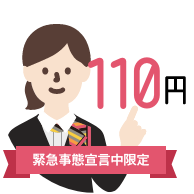
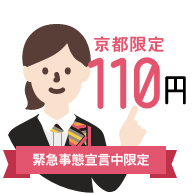
update

Changed region(s): [[0.4639, 0.1856, 0.866, 0.2784]]

diff --git a/front-page.php b/front-page.php
@@ -43,75 +43,13 @@ get_header(); ?>
 <!-- ▼ 重要なおしらせ -->
 <div class="important">
   <h3><i class="fas fa-flag mr-2"></i>飲食店応援キャンペーン</h3>
-  <p>緊急事態宣言発令に伴い、1/14～宣言終了期間まで通常550円の宅配料を<span class="font-weight-bold text-primary">110円</span>でご利用いただけます。</p>
+  <p>緊急事態宣言発令に伴い、1/14～宣言終了期間まで通常550円の宅配料を<span class="font-weight-bold text-primary">110円</span>でご利用いただけます。（京都限定）</p>
 </div>
 <!-- ▲ 重要なおしらせ -->
 
-<section class="search">
-<div class="search__genre bg-white pb-4">
-<div class="container">
-<div class="search__genre-list">
-<ul>
-<li>
-<a class="text-body" href="<?php echo $home; ?>/?post_type=shop&s=&shop_category=yakiniku">
-<img src="<?php echo $wp_url; ?>/dist/images/genre_yakiniku.png" alt="焼肉/鉄板焼" srcset="<?php echo $wp_url; ?>/dist/images/genre_yakiniku.png 1x, <?php echo $wp_url; ?>/dist/images/genre_yakiniku@2x.png 2x">
-<span>焼肉/鉄板焼</span>
-</a>
-</li>
-<li>
-<a class="text-body" href="<?php echo $home; ?>/?post_type=shop&s=&shop_category=sushi">
-<img src="<?php echo $wp_url; ?>/dist/images/genre_sushi.png" alt="寿司/刺身" srcset="<?php echo $wp_url; ?>/dist/images/genre_sushi.png 1x, <?php echo $wp_url; ?>/dist/images/genre_sushi@2x.png 2x">
-<span>寿司/刺身</span>
-</a>
-</li>
-<li>
-<a class="text-body" href="<?php echo $home; ?>/?post_type=shop&s=&shop_category=japan">
-<img src="<?php echo $wp_url; ?>/dist/images/genre_japan.png" alt="和食" srcset="<?php echo $wp_url; ?>/dist/images/genre_japan.png 1x, <?php echo $wp_url; ?>/dist/images/genre_japan@2x.png 2x">
-<span>和食</span>
-</a>
-</li>
-<li>
-<a class="text-body" href="<?php echo $home; ?>/?post_type=shop&s=&shop_category=western">
-<img src="<?php echo $wp_url; ?>/dist/images/genre_western.png" alt="洋食" srcset="<?php echo $wp_url; ?>/dist/images/genre_western.png 1x, <?php echo $wp_url; ?>/dist/images/genre_western@2x.png 2x">
-<span>洋食</span>
-</a>
-</li>
-<li>
-<a class="text-body" href="<?php echo $home; ?>/?post_type=shop&s=&shop_category=curry">
-<img src="<?php echo $wp_url; ?>/dist/images/genre_curry.png" alt="カレー" srcset="<?php echo $wp_url; ?>/dist/images/genre_curry.png 1x, <?php echo $wp_url; ?>/dist/images/genre_curry@2x.png 2x">
-<span>カレー</span>
-</a>
-</li>
-<li>
-<a class="text-body" href="<?php echo $home; ?>/?post_type=shop&s=&shop_category=izakaya">
-<img src="<?php echo $wp_url; ?>/dist/images/genre_izakaya.png" alt="居酒屋" srcset="<?php echo $wp_url; ?>/dist/images/genre_izakaya.png 1x, <?php echo $wp_url; ?>/dist/images/genre_izakaya@2x.png 2x">
-<span>居酒屋</span>
-</a>
-</li>
-<li>
-<a class="text-body" href="<?php echo $home; ?>/?post_type=shop&s=&shop_category=yakitori">
-<img src="<?php echo $wp_url; ?>/dist/images/genre_yakitori.png" alt="焼き鳥" srcset="<?php echo $wp_url; ?>/dist/images/genre_yakitori.png 1x, <?php echo $wp_url; ?>/dist/images/genre_yakitori@2x.png 2x">
-<span>焼き鳥</span>
-</a>
-</li>
-<li>
-<a class="text-body" href="<?php echo $home; ?>/?post_type=shop&s=&shop_category=cafe">
-<img src="<?php echo $wp_url; ?>/dist/images/genre_cafe.png" alt="カフェ/スイーツ" srcset="<?php echo $wp_url; ?>/dist/images/genre_cafe.png 1x, <?php echo $wp_url; ?>/dist/images/genre_cafe@2x.png 2x">
-<span>カフェ/スイーツ</span>
-</a>
-</li>
-<li>
-<a class="text-body" href="<?php echo $home; ?>/?post_type=shop&s=&shop_category=asia">
-<img src="<?php echo $wp_url; ?>/dist/images/genre_asia.png" alt="アジア料理" srcset="<?php echo $wp_url; ?>/dist/images/genre_asia.png 1x, <?php echo $wp_url; ?>/dist/images/genre_asia@2x.png 2x">
-<span>アジア料理</span>
-</a>
-</li>
-
-</ul>
-</div>
-</div>
-</div>
-</section>
+<!-- ▼ ジャンル -->
+<?php get_template_part('genre'); ?>
+<!-- ▲ ジャンル -->
 
 <!-- search -->
 <div class="py-md-5 main-left front">

diff --git a/genre.php b/genre.php
@@ -1,0 +1,76 @@
+<?php
+$home = esc_url(home_url());
+$wp_url = get_template_directory_uri();
+get_header(); ?>
+
+<section class="search">
+<div class="search__genre bg-white pb-4">
+<div class="container">
+<div class="search__genre-list">
+<ul>
+<li>
+<a class="text-body" href="<?php echo $home; ?>/?post_type=shop&s=&shop_category=yakiniku">
+<img src="<?php echo $wp_url; ?>/dist/images/genre_yakiniku.png" alt="焼肉/鉄板焼" srcset="<?php echo $wp_url; ?>/dist/images/genre_yakiniku.png 1x, <?php echo $wp_url; ?>/dist/images/genre_yakiniku@2x.png 2x">
+<span>焼肉/鉄板焼</span>
+</a>
+</li>
+<li>
+<a class="text-body" href="<?php echo $home; ?>/?post_type=shop&s=&shop_category=sushi">
+<img src="<?php echo $wp_url; ?>/dist/images/genre_sushi.png" alt="寿司/刺身" srcset="<?php echo $wp_url; ?>/dist/images/genre_sushi.png 1x, <?php echo $wp_url; ?>/dist/images/genre_sushi@2x.png 2x">
+<span>寿司/刺身</span>
+</a>
+</li>
+<li>
+<a class="text-body" href="<?php echo $home; ?>/?post_type=shop&s=&shop_category=japan">
+<img src="<?php echo $wp_url; ?>/dist/images/genre_japan.png" alt="和食" srcset="<?php echo $wp_url; ?>/dist/images/genre_japan.png 1x, <?php echo $wp_url; ?>/dist/images/genre_japan@2x.png 2x">
+<span>和食</span>
+</a>
+</li>
+<li>
+<a class="text-body" href="<?php echo $home; ?>/?post_type=shop&s=&shop_category=western">
+<img src="<?php echo $wp_url; ?>/dist/images/genre_western.png" alt="洋食" srcset="<?php echo $wp_url; ?>/dist/images/genre_western.png 1x, <?php echo $wp_url; ?>/dist/images/genre_western@2x.png 2x">
+<span>洋食</span>
+</a>
+</li>
+<li>
+<a class="text-body" href="<?php echo $home; ?>/?post_type=shop&s=&shop_category=curry">
+<img src="<?php echo $wp_url; ?>/dist/images/genre_curry.png" alt="カレー" srcset="<?php echo $wp_url; ?>/dist/images/genre_curry.png 1x, <?php echo $wp_url; ?>/dist/images/genre_curry@2x.png 2x">
+<span>カレー</span>
+</a>
+</li>
+<li>
+<a class="text-body" href="<?php echo $home; ?>/?post_type=shop&s=&shop_category=izakaya">
+<img src="<?php echo $wp_url; ?>/dist/images/genre_izakaya.png" alt="居酒屋" srcset="<?php echo $wp_url; ?>/dist/images/genre_izakaya.png 1x, <?php echo $wp_url; ?>/dist/images/genre_izakaya@2x.png 2x">
+<span>居酒屋</span>
+</a>
+</li>
+<li>
+<a class="text-body" href="<?php echo $home; ?>/?post_type=shop&s=&shop_category=yakitori">
+<img src="<?php echo $wp_url; ?>/dist/images/genre_yakitori.png" alt="焼き鳥" srcset="<?php echo $wp_url; ?>/dist/images/genre_yakitori.png 1x, <?php echo $wp_url; ?>/dist/images/genre_yakitori@2x.png 2x">
+<span>焼き鳥</span>
+</a>
+</li>
+<li>
+<a class="text-body" href="<?php echo $home; ?>/?post_type=shop&s=&shop_category=cafe">
+<img src="<?php echo $wp_url; ?>/dist/images/genre_cafe.png" alt="カフェ/スイーツ" srcset="<?php echo $wp_url; ?>/dist/images/genre_cafe.png 1x, <?php echo $wp_url; ?>/dist/images/genre_cafe@2x.png 2x">
+<span>カフェ/スイーツ</span>
+</a>
+</li>
+<li>
+<a class="text-body" href="<?php echo $home; ?>/?post_type=shop&s=&shop_category=asia">
+<img src="<?php echo $wp_url; ?>/dist/images/genre_asia.png" alt="アジア料理" srcset="<?php echo $wp_url; ?>/dist/images/genre_asia.png 1x, <?php echo $wp_url; ?>/dist/images/genre_asia@2x.png 2x">
+<span>アジア料理</span>
+</a>
+</li>
+<li>
+<a class="text-body" href="<?php echo $home; ?>/?post_type=shop&s=&shop_category=other">
+<img src="<?php echo $wp_url; ?>/dist/images/genre_other.png" alt="多国籍/その他" srcset="<?php echo $wp_url; ?>/dist/images/genre_other.png 1x, <?php echo $wp_url; ?>/dist/images/genre_other@2x.png 2x">
+<span>多国籍/その他</span>
+</a>
+</li>
+
+</ul>
+</div>
+</div>
+</div>
+</section>

diff --git a/archive-shop.php b/archive-shop.php
@@ -29,71 +29,9 @@ get_header(); ?>
 </div>
 </div>
 
-<section class="search">
-<div class="search__genre bg-white">
-<div class="container">
-<div class="search__genre-list">
-<ul>
-<li>
-<a class="text-body" href="<?php echo $home; ?>/?post_type=shop&s=&shop_category=yakiniku">
-<img src="<?php echo $wp_url; ?>/dist/images/genre_yakiniku.png" alt="焼肉/鉄板焼" srcset="<?php echo $wp_url; ?>/dist/images/genre_yakiniku.png 1x, <?php echo $wp_url; ?>/dist/images/genre_yakiniku@2x.png 2x">
-<span>焼肉/鉄板焼</span>
-</a>
-</li>
-<li>
-<a class="text-body" href="<?php echo $home; ?>/?post_type=shop&s=&shop_category=sushi">
-<img src="<?php echo $wp_url; ?>/dist/images/genre_sushi.png" alt="寿司/刺身" srcset="<?php echo $wp_url; ?>/dist/images/genre_sushi.png 1x, <?php echo $wp_url; ?>/dist/images/genre_sushi@2x.png 2x">
-<span>寿司/刺身</span>
-</a>
-</li>
-<li>
-<a class="text-body" href="<?php echo $home; ?>/?post_type=shop&s=&shop_category=japan">
-<img src="<?php echo $wp_url; ?>/dist/images/genre_japan.png" alt="和食" srcset="<?php echo $wp_url; ?>/dist/images/genre_japan.png 1x, <?php echo $wp_url; ?>/dist/images/genre_japan@2x.png 2x">
-<span>和食</span>
-</a>
-</li>
-<li>
-<a class="text-body" href="<?php echo $home; ?>/?post_type=shop&s=&shop_category=western">
-<img src="<?php echo $wp_url; ?>/dist/images/genre_western.png" alt="洋食" srcset="<?php echo $wp_url; ?>/dist/images/genre_western.png 1x, <?php echo $wp_url; ?>/dist/images/genre_western@2x.png 2x">
-<span>洋食</span>
-</a>
-</li>
-<li>
-<a class="text-body" href="<?php echo $home; ?>/?post_type=shop&s=&shop_category=curry">
-<img src="<?php echo $wp_url; ?>/dist/images/genre_curry.png" alt="カレー" srcset="<?php echo $wp_url; ?>/dist/images/genre_curry.png 1x, <?php echo $wp_url; ?>/dist/images/genre_curry@2x.png 2x">
-<span>カレー</span>
-</a>
-</li>
-<li>
-<a class="text-body" href="<?php echo $home; ?>/?post_type=shop&s=&shop_category=izakaya">
-<img src="<?php echo $wp_url; ?>/dist/images/genre_izakaya.png" alt="居酒屋" srcset="<?php echo $wp_url; ?>/dist/images/genre_izakaya.png 1x, <?php echo $wp_url; ?>/dist/images/genre_izakaya@2x.png 2x">
-<span>居酒屋</span>
-</a>
-</li>
-<li>
-<a class="text-body" href="<?php echo $home; ?>/?post_type=shop&s=&shop_category=yakitori">
-<img src="<?php echo $wp_url; ?>/dist/images/genre_yakitori.png" alt="焼き鳥" srcset="<?php echo $wp_url; ?>/dist/images/genre_yakitori.png 1x, <?php echo $wp_url; ?>/dist/images/genre_yakitori@2x.png 2x">
-<span>焼き鳥</span>
-</a>
-</li>
-<li>
-<a class="text-body" href="<?php echo $home; ?>/?post_type=shop&s=&shop_category=cafe">
-<img src="<?php echo $wp_url; ?>/dist/images/genre_cafe.png" alt="カフェ/スイーツ" srcset="<?php echo $wp_url; ?>/dist/images/genre_cafe.png 1x, <?php echo $wp_url; ?>/dist/images/genre_cafe@2x.png 2x">
-<span>カフェ/スイーツ</span>
-</a>
-</li>
-<li>
-<a class="text-body" href="<?php echo $home; ?>/?post_type=shop&s=&shop_category=asia">
-<img src="<?php echo $wp_url; ?>/dist/images/genre_asia.png" alt="アジア料理" srcset="<?php echo $wp_url; ?>/dist/images/genre_asia.png 1x, <?php echo $wp_url; ?>/dist/images/genre_asia@2x.png 2x">
-<span>アジア料理</span>
-</a>
-</li>
-
-</ul>
-</div>
-</div>
-</div>
-</section>
+<!-- ▼ ジャンル -->
+<?php get_template_part('genre'); ?>
+<!-- ▲ ジャンル -->
 
 <div class="py-md-5 main-left  bg-white">
 <div class="container">

diff --git a/archive.php b/archive.php
@@ -29,71 +29,9 @@ get_header(); ?>
 </div>
 </div>
 
-<section class="search">
-<div class="search__genre bg-white">
-<div class="container">
-<div class="search__genre-list">
-<ul>
-<li>
-<a class="text-body" href="<?php echo $home; ?>/?post_type=shop&s=&shop_category=yakiniku">
-<img src="<?php echo $wp_url; ?>/dist/images/genre_yakiniku.png" alt="焼肉/鉄板焼" srcset="<?php echo $wp_url; ?>/dist/images/genre_yakiniku.png 1x, <?php echo $wp_url; ?>/dist/images/genre_yakiniku@2x.png 2x">
-<span>焼肉/鉄板焼</span>
-</a>
-</li>
-<li>
-<a class="text-body" href="<?php echo $home; ?>/?post_type=shop&s=&shop_category=sushi">
-<img src="<?php echo $wp_url; ?>/dist/images/genre_sushi.png" alt="寿司/刺身" srcset="<?php echo $wp_url; ?>/dist/images/genre_sushi.png 1x, <?php echo $wp_url; ?>/dist/images/genre_sushi@2x.png 2x">
-<span>寿司/刺身</span>
-</a>
-</li>
-<li>
-<a class="text-body" href="<?php echo $home; ?>/?post_type=shop&s=&shop_category=japan">
-<img src="<?php echo $wp_url; ?>/dist/images/genre_japan.png" alt="和食" srcset="<?php echo $wp_url; ?>/dist/images/genre_japan.png 1x, <?php echo $wp_url; ?>/dist/images/genre_japan@2x.png 2x">
-<span>和食</span>
-</a>
-</li>
-<li>
-<a class="text-body" href="<?php echo $home; ?>/?post_type=shop&s=&shop_category=western">
-<img src="<?php echo $wp_url; ?>/dist/images/genre_western.png" alt="洋食" srcset="<?php echo $wp_url; ?>/dist/images/genre_western.png 1x, <?php echo $wp_url; ?>/dist/images/genre_western@2x.png 2x">
-<span>洋食</span>
-</a>
-</li>
-<li>
-<a class="text-body" href="<?php echo $home; ?>/?post_type=shop&s=&shop_category=curry">
-<img src="<?php echo $wp_url; ?>/dist/images/genre_curry.png" alt="カレー" srcset="<?php echo $wp_url; ?>/dist/images/genre_curry.png 1x, <?php echo $wp_url; ?>/dist/images/genre_curry@2x.png 2x">
-<span>カレー</span>
-</a>
-</li>
-<li>
-<a class="text-body" href="<?php echo $home; ?>/?post_type=shop&s=&shop_category=izakaya">
-<img src="<?php echo $wp_url; ?>/dist/images/genre_izakaya.png" alt="居酒屋" srcset="<?php echo $wp_url; ?>/dist/images/genre_izakaya.png 1x, <?php echo $wp_url; ?>/dist/images/genre_izakaya@2x.png 2x">
-<span>居酒屋</span>
-</a>
-</li>
-<li>
-<a class="text-body" href="<?php echo $home; ?>/?post_type=shop&s=&shop_category=yakitori">
-<img src="<?php echo $wp_url; ?>/dist/images/genre_yakitori.png" alt="焼き鳥" srcset="<?php echo $wp_url; ?>/dist/images/genre_yakitori.png 1x, <?php echo $wp_url; ?>/dist/images/genre_yakitori@2x.png 2x">
-<span>焼き鳥</span>
-</a>
-</li>
-<li>
-<a class="text-body" href="<?php echo $home; ?>/?post_type=shop&s=&shop_category=cafe">
-<img src="<?php echo $wp_url; ?>/dist/images/genre_cafe.png" alt="カフェ/スイーツ" srcset="<?php echo $wp_url; ?>/dist/images/genre_cafe.png 1x, <?php echo $wp_url; ?>/dist/images/genre_cafe@2x.png 2x">
-<span>カフェ/スイーツ</span>
-</a>
-</li>
-<li>
-<a class="text-body" href="<?php echo $home; ?>/?post_type=shop&s=&shop_category=asia">
-<img src="<?php echo $wp_url; ?>/dist/images/genre_asia.png" alt="アジア料理" srcset="<?php echo $wp_url; ?>/dist/images/genre_asia.png 1x, <?php echo $wp_url; ?>/dist/images/genre_asia@2x.png 2x">
-<span>アジア料理</span>
-</a>
-</li>
-
-</ul>
-</div>
-</div>
-</div>
-</section>
+<!-- ▼ ジャンル -->
+<?php get_template_part('genre'); ?>
+<!-- ▲ ジャンル -->
 
 <div class="py-md-5 main-left  bg-white">
 <div class="container">

diff --git a/page-service-tel.php b/page-service-tel.php
@@ -34,7 +34,7 @@ get_header(); ?>
 <!-- ▼ 重要なおしらせ -->
 <div class="important">
   <h3><i class="fas fa-flag mr-2"></i>飲食店応援キャンペーン</h3>
-  <p>緊急事態宣言発令に伴い、1/14～宣言終了期間まで通常550円の宅配料を<span class="font-weight-bold text-primary">110円</span>でご利用いただけます。</p>
+  <p>緊急事態宣言発令に伴い、1/14～宣言終了期間まで通常550円の宅配料を<span class="font-weight-bold text-primary">110円</span>でご利用いただけます。（京都限定）</p>
 </div>
 <!-- ▲ 重要なおしらせ -->
 
@@ -109,7 +109,8 @@ get_header(); ?>
 </div>
 <div class="lp__feature__list__inner">
 <div class="lp__feature__list__inner-wrap">
-<h3>ご利用は1回のご注文<br><span><s class="text-decoration-line-through">550円</s><span class="text-primary">110円</span></span>から</h3>
+<h3>ご利用は1回のご注文<br><span><s class="text-decoration-line-through">550円</s><span class="text-primary">110円</span></span>から(京都限定)
+</h3>
 <!-- <img src="<?php echo $img_url; ?>lp_feature_3_tel.png" alt="ご利用は1回のご注文550円から" srcset="<?php echo $img_url; ?>lp_feature_3_tel.png 1x, <?php echo $img_url; ?>lp_feature_3_tel@2x.png 2x"> -->
 <img src="<?php echo $img_url; ?>lp_feature_3_110.png" alt="ご利用は1回のご注文110円から" srcset="<?php echo $img_url; ?>lp_feature_3_110.png 1x, <?php echo $img_url; ?>lp_feature_3_110@2x.png 2x">
 <p>料理代金は直接お客様と精算願います。宅配先においてもお客様に直接トランクからお受け取りいただきます。<br>ドライバーが商品をお預かりする際に、宅配料（現金）をドライバーにお支払いください。</p>
@@ -156,7 +157,7 @@ get_header(); ?>
 <table class="lp__table mb-3 bg-white">
 <tr>
 <th class="bg-secondary p-3">宅配料</th>
-<td class="p-3">1回の注文で<span class="font-weight-bold"><s class="text-decoration-line-through">550円</s><span class="text-primary">110円（税込）</span></span></td>
+<td class="p-3">1回の注文で<span class="font-weight-bold"><s class="text-decoration-line-through">550円</s><span class="text-primary">110円（京都限定）</span></span></td>
 </tr>
 <tr>
 <th class="bg-secondary p-3">対象エリア</th>

diff --git a/page-service.php b/page-service.php
@@ -34,7 +34,7 @@ get_header(); ?>
 <!-- ▼ 重要なおしらせ -->
 <div class="important">
   <h3><i class="fas fa-flag mr-2"></i>飲食店応援キャンペーン</h3>
-  <p>緊急事態宣言発令に伴い、1/14～宣言終了期間まで通常550円の宅配料を<span class="font-weight-bold text-primary">110円</span>でご利用いただけます。</p>
+  <p>緊急事態宣言発令に伴い、1/14～宣言終了期間まで通常550円の宅配料を<span class="font-weight-bold text-primary">110円</span>でご利用いただけます。（京都限定）</p>
 </div>
 <!-- ▲ 重要なおしらせ -->
 
